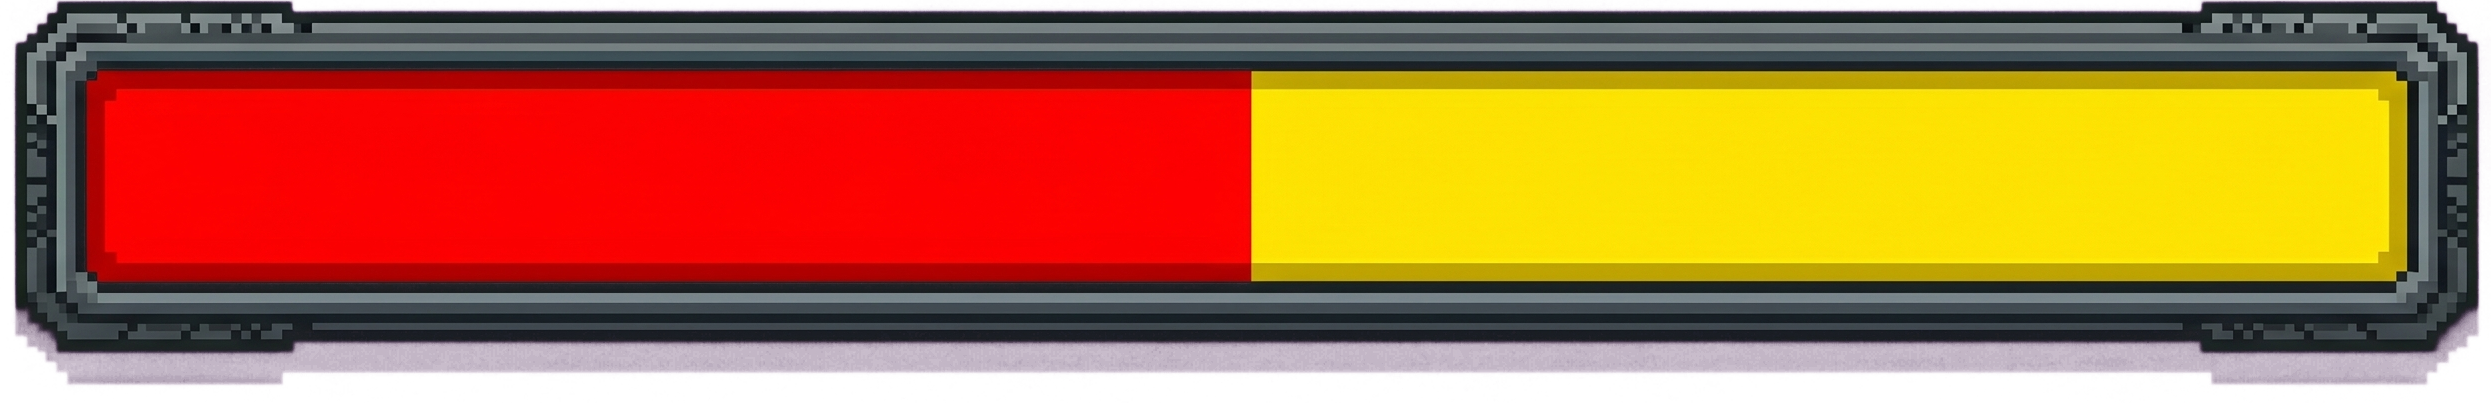
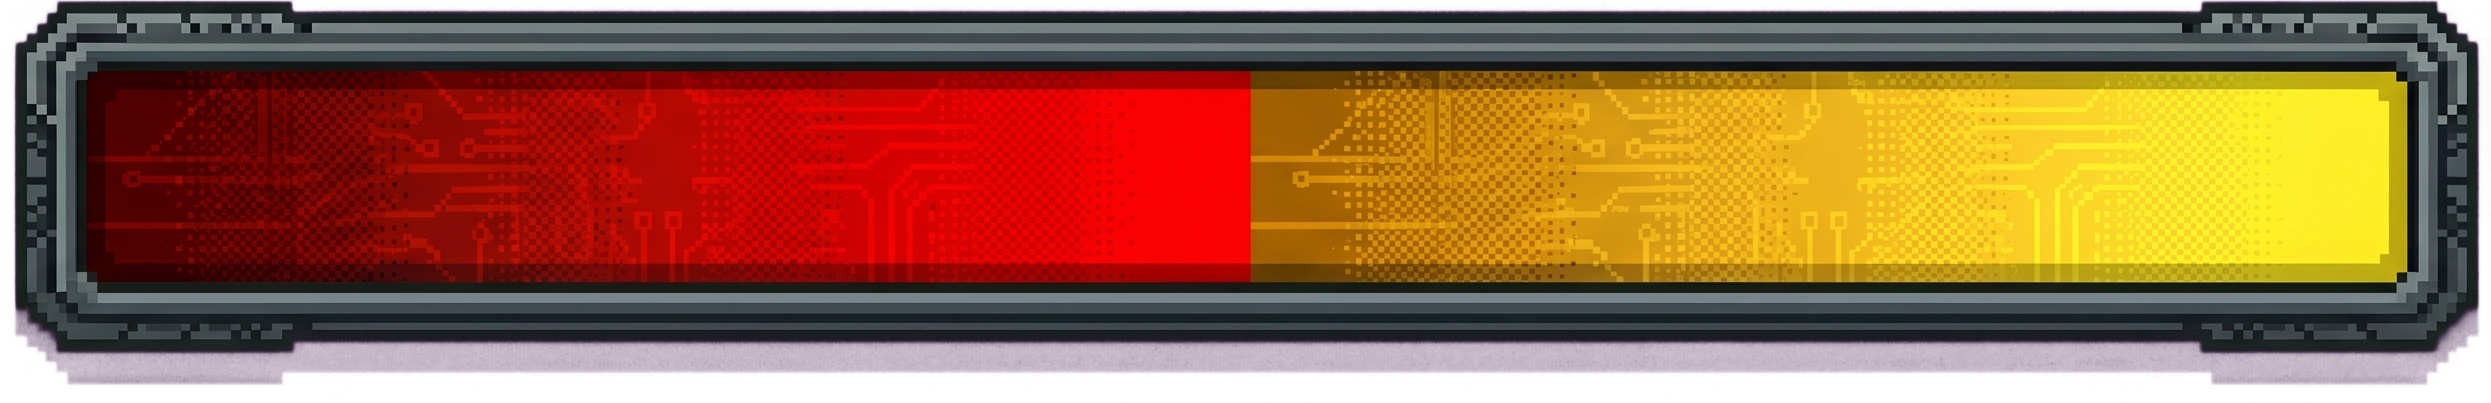
Remove HP column from scoreboard and CLI output, and shrink base table width to 650

diff --git a/src/lfdata/video/helpers.py b/src/lfdata/video/helpers.py
@@ -21,15 +21,15 @@ DEFAULT_CONFIG: dict[str, Any] = {
             'x': 0.95,
             'y': 0.9,
             'align': 'right',
-            'style': {'size': 10},
+            'style': {'size': 14},
         },
         'time': {
             'enabled': True,
             'x': 0.95,
-            'y': 0.5,
+            'y': 0.22,
             'align': 'right',
             'style': {
-                'size': 20,
+                'size': 40,
                 'font': 'advanced_pixel_lcd-7',
             },
         },
@@ -101,9 +101,9 @@ DEFAULT_CONFIG: dict[str, Any] = {
         },
         'scoreboard': {
             'enabled': True,
-            'x': 0.1,
+            'x': 0.05,
             'y': 0.4,
-            'extents': [0.5, 0.5],
+            'extents': [0.4, 0.4],
             'align': 'left',
             'draw_background': False,
             'draw_borders': False,
@@ -111,31 +111,31 @@ DEFAULT_CONFIG: dict[str, Any] = {
         },
         'downtime': {
             'enabled': True,
-            'top_left': [0.3, 0.2],
-            'bottom_right': [0.7, 0.23],
+            'top_left': [0.3, 0.14],
+            'bottom_right': [0.7, 0.17],
         },
         'player_events': {
             'enabled': True,
             'x': 0.5,
-            'y': 0.3,
+            'y': 0.2,
             'align': 'center',
             'style': {'size': 18},
         },
         'game_events': {
             'enabled': True,
             'x': 0.5,
-            'y': 0.35,
+            'y': 0.25,
             'align': 'center',
             'style': {'size': 20},
         },
         'all_game_events': {
             'enabled': True,
-            'x': 0.55,
-            'y': 0.45,
-            'extents': [0.4, 0.4],
+            'x': 0.75,
+            'y': 0.6,
+            'extents': [0.25, 0.25],
             'align': 'left',
             'tilt': 10.0,
-            'style': {'size': 20},
+            'style': {'size': 16},
         },
     },
 }

diff --git a/src/lfdata/video/renderer.py b/src/lfdata/video/renderer.py
@@ -787,7 +787,7 @@ class VideoGenerator:
         overlay = Image.new('RGBA', image.size, (0, 0, 0, 0))
         draw = ImageDraw.Draw(overlay)
 
-        table_width = int(800 * image.width / 1920)
+        table_width = int(650 * image.width / 1920)
         ty = int(team['y_pos'])
 
         columns, offsets = self._resolve_scoreboard_columns(
@@ -868,21 +868,20 @@ class VideoGenerator:
             columns.append('Role')
         columns.append('Score')
         if is_sm5:
-            columns.extend(['Lives', 'Shots', 'Missiles', 'Spec', 'HP'])
+            columns.extend(['Lives', 'Shots', 'Missiles', 'Spec'])
 
         col_offset_map = {
             'Player': 20,
             'Role': 180,
-            'Score': 310,
-            'Lives': 410,
-            'Shots': 490,
-            'Missiles': 570,
-            'Spec': 660,
-            'HP': 730,
+            'Score': 230,
+            'Lives': 330,
+            'Shots': 410,
+            'Missiles': 490,
+            'Spec': 580,
         }
 
         offsets = [
-            x_start + int(col_offset_map[col] * table_width / 800)
+            x_start + int(col_offset_map[col] * table_width / 650)
             for col in columns
         ]
         return columns, offsets
@@ -915,11 +914,6 @@ class VideoGenerator:
                 vals.append(str(p.get('missiles', 0)))
             elif col == 'Spec':
                 vals.append(str(p.get('special_points', 0)))
-            elif col == 'HP':
-                if p.get('max_hp', 0) > 1:
-                    vals.append(str(p.get('hp', 0)))
-                else:
-                    vals.append('')
         return vals
 
     def _compile_totals_row_values(
@@ -950,8 +944,6 @@ class VideoGenerator:
                 vals.append(str(totals.get('missiles', 0)))
             elif col == 'Spec':
                 vals.append(str(totals.get('special_points', 0)))
-            elif col == 'HP':
-                vals.append(str(totals.get('hp', 0)))
         return vals
 
     def _draw_downtime_bar(self, image: Image.Image, el: UIElement) -> None:

diff --git a/tests/test_renderer.py b/tests/test_renderer.py
@@ -616,22 +616,22 @@ def test_new_renderer_rules() -> None:
         assert mock_draw_sb.rectangle.call_count > 0
         assert mock_draw_sb.line.call_count > 0
 
-    # 3. Test player HP filtering in player rows
+    # 3. Test HP column is removed entirely
     mock_draw_p = MagicMock()
     with (
         patch('PIL.ImageDraw.Draw', return_value=mock_draw_p),
         patch.object(vg, '_load_scoreboard_fonts', return_value=(None, None)),
     ):
         vg._draw_scoreboard(img, el_sb, {})
-        # Commander has max_hp = 3 (>1), Sct has max_hp = 1 (<=1)
-        # Check HP values passed to draw.text
-        hp_calls = [
+        # Get all text elements drawn
+        text_calls = [
             args[1] if len(args) > 1 else kwargs.get('text', '')
             for args, kwargs in mock_draw_p.text.call_args_list
         ]
-        # HP '3' should be drawn, '1' should be hidden (so not present)
-        assert '3' in hp_calls
-        assert '1' not in hp_calls
+        # HP column should be removed: no HP header, and no player HP values
+        assert 'HP' not in text_calls
+        assert '3' not in text_calls
+        assert '1' not in text_calls
 
 
 def test_downtime_bar_cropping() -> None:

diff --git a/src/lfdata/__main__.py b/src/lfdata/__main__.py
@@ -198,11 +198,10 @@ def main() -> None:
                         f'{"Lives":>5} | '
                         f'{"Shots":>5} | '
                         f'{"Missiles":>8} | '
-                        f'{"Spec":>5} | '
-                        f'{"HP":>4}'
+                        f'{"Spec":>5}'
                     )
                     print(header)
-                    print(f'      {"-" * 86}')
+                    print(f'      {"-" * 79}')
                     for p in team['players']:
                         if p['is_eliminated']:
                             state_suffix = ' (Eliminated)'
@@ -220,11 +219,10 @@ def main() -> None:
                             f'{p["lives"]:>5} | '
                             f'{p["shots"]:>5} | '
                             f'{p["missiles"]:>8} | '
-                            f'{p["special_points"]:>5} | '
-                            f'{p["hp"]:>4}'
+                            f'{p["special_points"]:>5}'
                         )
                         print(row)
-                    print(f'      {"-" * 86}')
+                    print(f'      {"-" * 79}')
                     tot = team['totals']
                     total_row = (
                         f'      {"TOTAL":<20} | '
@@ -233,8 +231,7 @@ def main() -> None:
                         f'{tot["lives"]:>5} | '
                         f'{tot["shots"]:>5} | '
                         f'{tot["missiles"]:>8} | '
-                        f'{tot["special_points"]:>5} | '
-                        f'{tot["hp"]:>4}'
+                        f'{tot["special_points"]:>5}'
                     )
                     print(total_row)
 

diff --git a/tests/test_main.py b/tests/test_main.py
@@ -52,8 +52,9 @@ def test_main_video_state_at(capsys) -> None:
         captured = capsys.readouterr()
         assert 'HUD Elements at 5000 ms:' in captured.out
         assert 'Game Type: Space Marines 5 Tournament Edition' in captured.out
-        assert 'HP' in captured.out
-        assert '-' * 86 in captured.out
+        assert 'Spec' in captured.out
+        assert 'HP' not in captured.out
+        assert '-' * 79 in captured.out
 
 
 def test_main_image_at(tmp_path: Path) -> None: